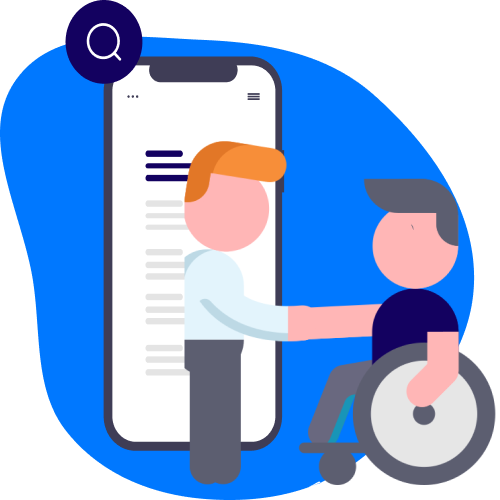
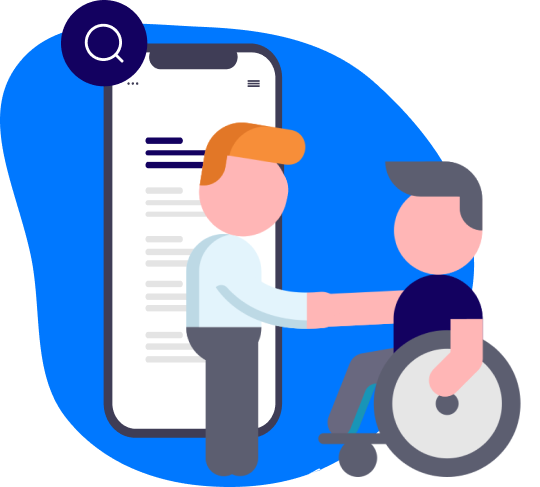
added  routes

diff --git a/lib/pages/main.dart b/lib/pages/main.dart
@@ -1,9 +1,14 @@
 import 'package:flutter/material.dart';
-import 'package:jobility_app/core/Functions.dart';
 import '../core/imports.dart';
+import '../core/functions.dart';
 
 class HomePage extends StatelessWidget {
   const HomePage({super.key});
+
+  // Method to navigate to the Registration page
+  void _navigateToRegistration(BuildContext context) {
+    Navigator.pushNamed(context, '/registration');
+  }
 
   @override
   Widget build(BuildContext context) {
@@ -11,7 +16,7 @@ class HomePage extends StatelessWidget {
       body: Stack(
         children: [
           Align(
-            alignment: Alignment(0, -0.6), 
+            alignment: const Alignment(0, -0.2), 
             child: Column(
               mainAxisSize: MainAxisSize.min, 
               children: [
@@ -21,7 +26,7 @@ class HomePage extends StatelessWidget {
                   width: AppLayout.imageLarge,
                   fit: BoxFit.contain,
                 ),
-                AppLayout.spaceSmall,
+                AppLayout.spaceMedium,
                 Align(
                   alignment: Alignment.centerLeft, 
                   child: Padding(
@@ -74,13 +79,11 @@ class HomePage extends StatelessWidget {
             child: Padding(
               padding: AppLayout.paddingLarge,
               child: FloatingActionButton(
-                onPressed: () {
-                  // Action for button press
-                },
-                backgroundColor: AppColors.darkPrimaryColor,
-                child: Icon(Icons.arrow_forward, color: Colors.white),
-                shape: RoundedRectangleBorder(
-                  borderRadius: AppLayout.borderRadiusLarge, 
+                onPressed: () => _navigateToRegistration(context),
+                backgroundColor: AppColors.primaryColor,
+                child: const Icon(Icons.arrow_forward, color: AppColors.lightColor),
+                shape: const RoundedRectangleBorder(
+                  borderRadius: AppLayout.borderRadiusLarge,
                 ),
               ),
             ),

diff --git a/lib/pages/splash_screen.dart b/lib/pages/splash_screen.dart
@@ -52,7 +52,7 @@ class _SplashScreenState extends State<SplashScreen>
         fit: StackFit.expand,
         children: [
           Image.asset(
-            'assets/images/cover.jpg',
+            AssetPaths.getImagePath('cover.jpg'),
             fit: BoxFit.cover,
           ),
           Center(
@@ -69,8 +69,8 @@ class _SplashScreenState extends State<SplashScreen>
                   },
                   child: Image.asset(
                     AssetPaths.getImagePath('logo-medium.png'),
-                    width: AppLayout.imageMedium,
-                    height: AppLayout.imageMedium,
+                    width: AppLayout.imageSmall,
+                    height: AppLayout.imageSmall,
                     fit: BoxFit.contain,
                   ),
                 ),

diff --git a/lib/routes.dart b/lib/routes.dart
@@ -1,0 +1,17 @@
+import 'package:flutter/material.dart';
+import 'core/imports.dart'; 
+
+class AppRouter {
+  static Route<dynamic> generateRoute(RouteSettings settings) {
+    switch (settings.name) {
+      case '/':
+        return MaterialPageRoute(builder: (_) => const HomePage());
+      case '/splash':
+        return MaterialPageRoute(builder: (_) => const SplashScreen());
+      case '/registration':
+        return MaterialPageRoute(builder: (_) => const RegistrationPage());
+      default:
+        return MaterialPageRoute(builder: (_) => const HomePage());
+    }
+  }
+}

diff --git a/lib/main.dart b/lib/main.dart
@@ -1,7 +1,5 @@
-// ignore_for_file: prefer_const_constructors
-
 import 'package:flutter/material.dart';
-import 'core/imports.dart';
+import 'routes.dart';
 
 
 void main() {
@@ -15,7 +13,8 @@ class MainApp extends StatelessWidget {
   Widget build(BuildContext context) {
     return MaterialApp(
       debugShowCheckedModeBanner: false,
-      home: SplashScreen(), 
+      initialRoute: '/splash',  // Set the initial route to splash screen
+      onGenerateRoute: AppRouter.generateRoute,  // Use the router for route generation
     );
   }
 }

diff --git a/lib/pages/auth/registration.dart b/lib/pages/auth/registration.dart
@@ -1,0 +1,21 @@
+import 'package:flutter/material.dart';
+import '../../core/imports.dart';
+
+class RegistrationPage extends StatelessWidget {
+  const RegistrationPage({super.key});
+
+  @override
+  Widget build(BuildContext context) {
+    return Scaffold(
+      appBar: AppBar(
+        title: Text('Registration'),
+      ),
+      body: Center(
+        child: Text(
+          'Registration Page Content',
+          style: AppTypography.headlineLarge,
+        ),
+      ),
+    );
+  }
+}

diff --git a/lib/src/styles/app.layout.dart b/lib/src/styles/app.layout.dart
@@ -13,8 +13,8 @@ class AppLayout {
 
   // Image sizes
   static const double imageSmall = 60.0;
-  static const double imageMedium = 100.0;
-  static const double imageLarge = 400.0;
+  static const double imageMedium = 200.0;
+  static const double imageLarge = 350.0;
 
   // Border radius
   static const BorderRadiusGeometry borderRadiusSmall =

diff --git a/lib/core/imports.dart b/lib/core/imports.dart
@@ -2,4 +2,5 @@ export '../src/styles/app.layout.dart';
 export '../src/styles/app.theme.dart';
 export '../src/styles/app.typography.dart';
 export '../pages/splash_screen.dart';
-export '../pages/homepage.dart';
+export '../pages/auth/registration.dart';
+export '../pages/main.dart';

diff --git a/macos/Flutter/GeneratedPluginRegistrant.swift b/macos/Flutter/GeneratedPluginRegistrant.swift
@@ -5,6 +5,8 @@
 import FlutterMacOS
 import Foundation
 
+import url_launcher_macos
 
 func RegisterGeneratedPlugins(registry: FlutterPluginRegistry) {
+  UrlLauncherPlugin.register(with: registry.registrar(forPlugin: "UrlLauncherPlugin"))
 }

diff --git a/linux/flutter/generated_plugin_registrant.cc b/linux/flutter/generated_plugin_registrant.cc
@@ -6,6 +6,10 @@
 
 #include "generated_plugin_registrant.h"
 
+#include <url_launcher_linux/url_launcher_plugin.h>
 
 void fl_register_plugins(FlPluginRegistry* registry) {
+  g_autoptr(FlPluginRegistrar) url_launcher_linux_registrar =
+      fl_plugin_registry_get_registrar_for_plugin(registry, "UrlLauncherPlugin");
+  url_launcher_plugin_register_with_registrar(url_launcher_linux_registrar);
 }

diff --git a/windows/flutter/generated_plugin_registrant.cc b/windows/flutter/generated_plugin_registrant.cc
@@ -6,6 +6,9 @@
 
 #include "generated_plugin_registrant.h"
 
+#include <url_launcher_windows/url_launcher_windows.h>
 
 void RegisterPlugins(flutter::PluginRegistry* registry) {
+  UrlLauncherWindowsRegisterWithRegistrar(
+      registry->GetRegistrarForPlugin("UrlLauncherWindows"));
 }
